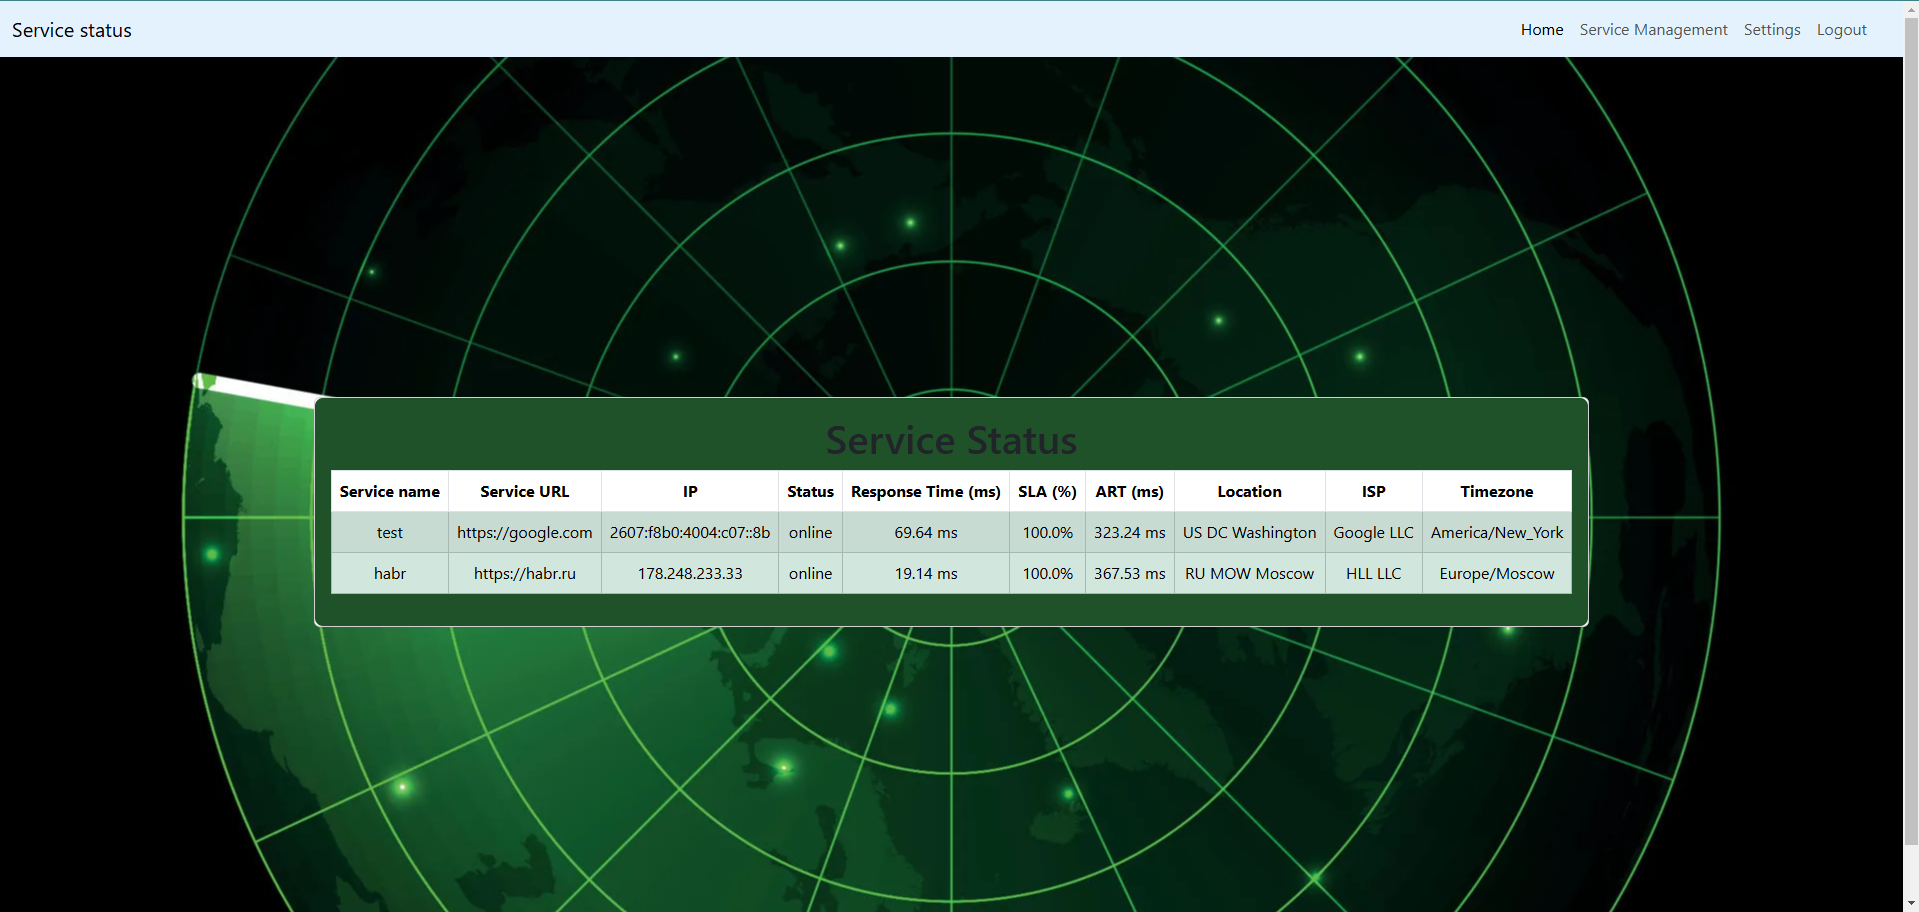
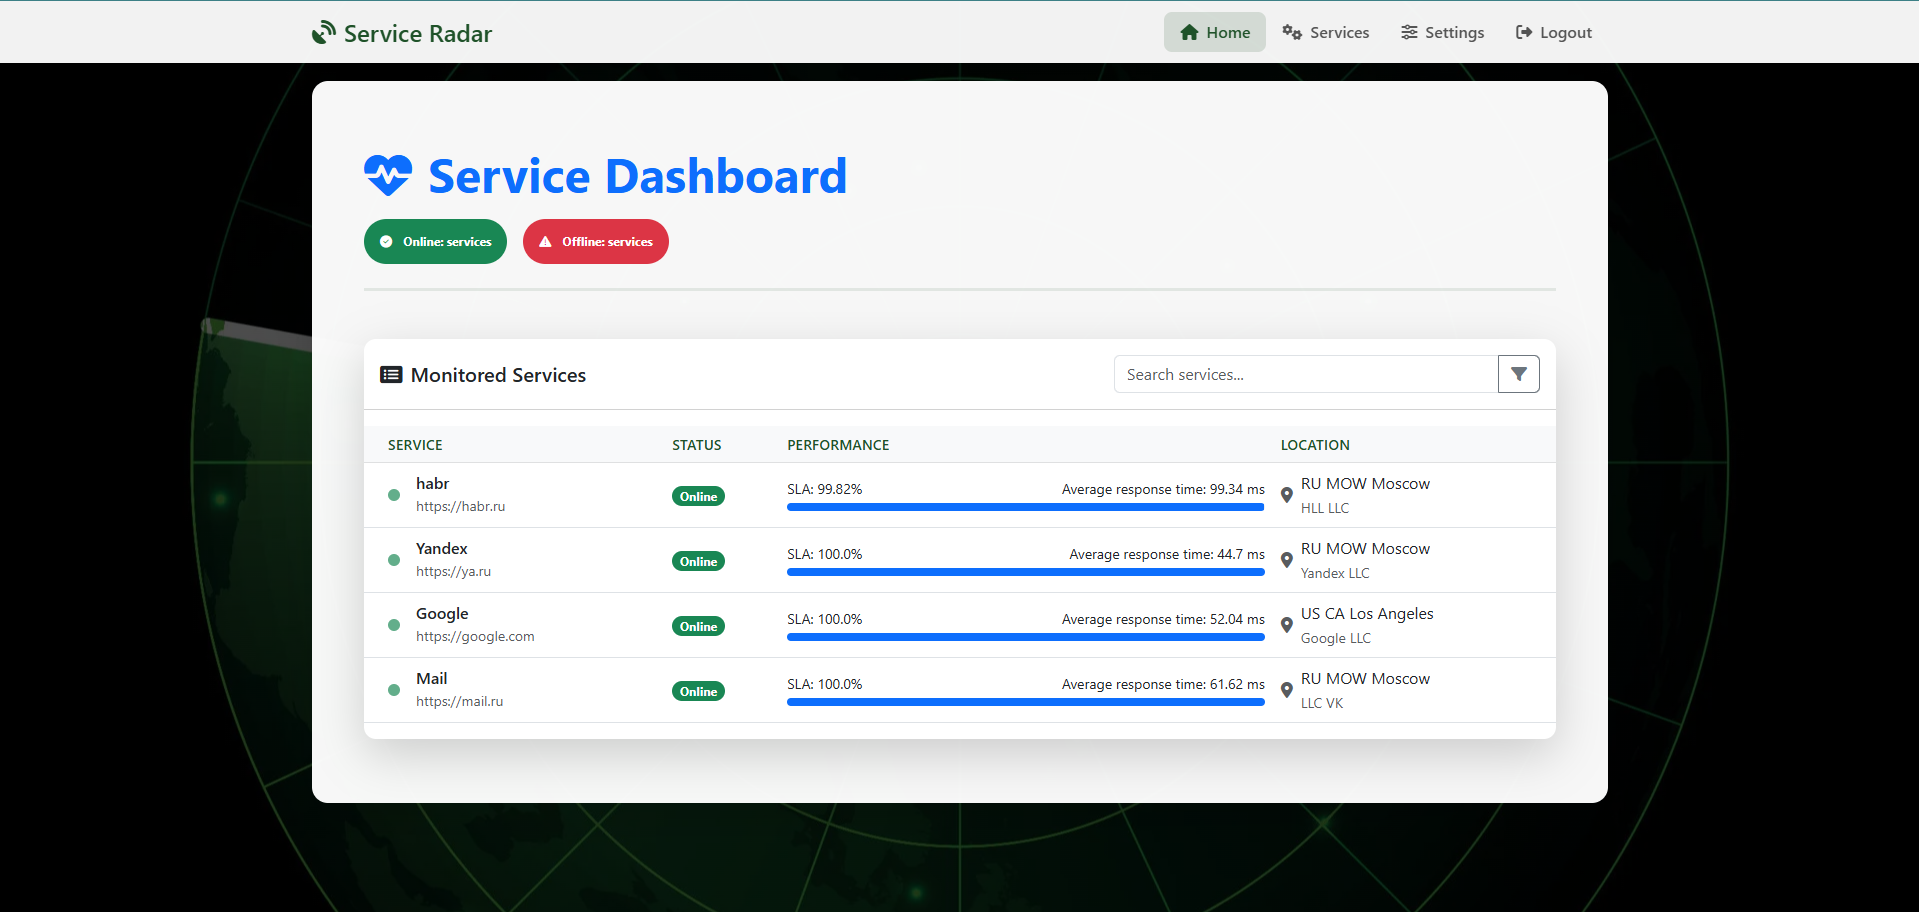
General improvements
Improved logging. Changes to some features to improve stability. Changes in the readme, updating screenshots in accordance with the new design.

diff --git a/templates/index.html b/templates/index.html
@@ -4,7 +4,7 @@
 <div class="container-fluid py-4">
     <div class="dashboard-header mb-5">
         <h1 class="display-5 fw-bold text-primary">
-            <i class="fas fa-heartbeat me-3"></i>Service Health Dashboard
+            <i class="fas fa-heartbeat me-3"></i>Service Dashboard
         </h1>
         <div class="status-summary d-flex gap-3 mt-3">
             <div class="badge bg-success rounded-pill p-3">
@@ -73,7 +73,7 @@
                                 <div class="progress-wrapper">
                                     <div class="d-flex justify-content-between small mb-1">
                                         <span>SLA: {{ sla_results.get(service.service_url, 0) }}%</span>
-                                        <span>{{ average_response_time_per_service.get(service.service_url, None)|float|round(2) }} ms</span>
+                                        <span>Average response time: {{ average_response_time_per_service.get(service.service_url, None)|float|round(2) }} ms</span>
                                     </div>
                                     <div class="progress" style="height: 8px;">
                                         <div class="progress-bar bg-primary"

diff --git a/app.py b/app.py
@@ -30,8 +30,9 @@ from location import get_location
 from urllib.parse import urlparse
 import configparser
 import os
+
+
 app = Flask(__name__)
-app.config['SECRET_KEY'] = 'your_secret_key'
 app.config['SQLALCHEMY_DATABASE_URI'] = 'sqlite:///services.db'
 init_db(app)
 bootstrap = Bootstrap5(app)
@@ -46,6 +47,9 @@ config['SMTP'] = {
 config['Schedule'] = {
     'interval': '300' # Set the interval in seconds to request updated data
 }
+config['Secret key'] = {
+    'key': 'your_secret_key'
+}
 config_path = 'conf/config.ini'
 os.makedirs(os.path.dirname(config_path), exist_ok=True)
 
@@ -57,7 +61,10 @@ else:
     config.read('conf/config.ini')
     print("The configuration file was successfully read")
 
+app.config['SECRET_KEY'] = config['Secret key']['key']
 schedule_interval = int(config['Schedule']['interval'])
+DEFAULT_ERROR_RESPONSE_TIME = 9999.99
+ERROR_TTL = 300
 
 login_manager = LoginManager()
 login_manager.init_app(app)
@@ -100,12 +107,13 @@ def check_services():
 
             except Exception as e:
                 status = 'offline'
-                response_time = 9999.99
-                # user_email = User.query.filter_by(id=user_id).with_entities(User.email).one()
-                # monitor_services(user_email, service_name, service_url)
+                response_time = DEFAULT_ERROR_RESPONSE_TIME
+                app.logger.error(f"The waiting time for a response from the {host} has exceeded. {e}")
 
             try:
                 location_info = get_location(host)
+                if "error" in location_info and (time.time() - location_info["timestamp"]) > ERROR_TTL:
+                    get_location.cache_clear()  # Reset cache for this host
             except Exception as e:
                 location_info = {
                     "query": host,
@@ -115,6 +123,7 @@ def check_services():
                     "isp": "N/A",
                     "timezone": "N/A"
                 }
+                app.logger.error(f"Geolocation request failed. {e}")
 
             service_status = ServiceStatus(
                 service_name=service_name,
@@ -155,12 +164,14 @@ def check_user_services():
 
         except Exception as e:
             status = 'offline'
-            response_time = 9999.99
-            app.logger.error(f"URL parsing failed: {e}")
+            response_time = DEFAULT_ERROR_RESPONSE_TIME
+            app.logger.error(f"The waiting time for a response from the {host} has exceeded. {e}")
 
-        # Получение геолокации с обработкой ошибок
+        # Getting geolocation with error handling
         try:
             location_info = get_location(host)
+            if "error" in location_info and (time.time() - location_info["timestamp"]) > ERROR_TTL:
+                get_location.cache_clear(host)  # Reset cache for this host
         except Exception as e:
             location_info = {
                 "query": host,
@@ -170,6 +181,7 @@ def check_user_services():
                 "isp": "N/A",
                 "timezone": "N/A"
             }
+            app.logger.error(f"Geolocation request failed. {e}")
 
         results.append({
             "service_name": service_name,
@@ -224,9 +236,15 @@ def monitor_services():
             last_status, current_status = get_last_status(service_url)
             if last_status != current_status and last_status is not None:
                 if current_status == 'offline':
-                    send_email(f"Service {service_name} is now offline", f"The service {service_url} has gone offline at {time.strftime('%Y-%m-%d %H:%M:%S')}", user_email)
+                    try:
+                        send_email(f"Service {service_name} is now offline", f"The service {service_url} has gone offline at {time.strftime('%Y-%m-%d %H:%M:%S')}", user_email)
+                    except Exception as e:
+                        app.logger.error(f"Failed to send email: {e}")
                 else:
-                    send_email(f"Service {service_name} is now online", f"The service {service_url} is now online at {time.strftime('%Y-%m-%d %H:%M:%S')}", user_email)
+                    try:
+                        send_email(f"Service {service_name} is now online", f"The service {service_url} is now online at {time.strftime('%Y-%m-%d %H:%M:%S')}", user_email)
+                    except Exception as e:
+                        app.logger.error(f"Failed to send email: {e}")
 
 
 @app.route('/register', methods=['GET', 'POST'])
@@ -303,8 +321,8 @@ def index():
                                         (ServiceStatus.service_url == subquery.c.service_url) &
                                         (ServiceStatus.timestamp == subquery.c.max_timestamp))
 
-    services_sla = ServiceStatus.query.filter_by(user_id=current_user.id).all()
-
+    services_sla = ServiceStatus.query.filter(ServiceStatus.user_id == current_user.id,
+                                              ServiceStatus.response_time != DEFAULT_ERROR_RESPONSE_TIME).all()
     total_responses_per_service = {s.service_url: len([ss for ss in services_sla if ss.service_url == s.service_url])
                                    for s in services}
 
@@ -425,4 +443,4 @@ def sla():
 
 
 if __name__ == '__main__':
-    app.run(debug=False)
+    app.run(debug=True)

diff --git a/location.py b/location.py
@@ -1,13 +1,21 @@
-import urllib.request as urllib2
+import requests
+from requests.exceptions import RequestException
+import time
 import json
 from functools import lru_cache
 
+RATE_LIMIT_DELAY = 1.5
+
 @lru_cache(maxsize=100)
-def get_location(ip):
-    url = "http://ip-api.com/json/"
-    response = urllib2.urlopen(url + ip)
-    data = response.read()
-    values = json.loads(data)
+def get_location(ip: str) -> dict:
+    time.sleep(RATE_LIMIT_DELAY)
+
+    try:
+        url = f"http://ip-api.com/json/{ip}"
+        response = requests.get(url, timeout=5)
+        values = response.json()
+    except RequestException:
+        return {"error": "API not available", "timestamp": time.time()}
 
     return values
 

diff --git a/README.MD b/README.MD
@@ -21,8 +21,8 @@ A project for monitoring the availability of services with a web interface, noti
 ## Installation
 1. **Clone a repository**:
    ```bash
-   git clone https://github.com/BTemplar/Service_Locator.git
-   cd Service_Locator
+   git clone https://github.com/BTemplar/Service_radar.git
+   cd Service_radar
 2. **Installing Libraries**:
    ```bash
    pip install -r requirements.txt
@@ -43,6 +43,9 @@ A project for monitoring the availability of services with a web interface, noti
 
    [Schedule]
    interval = 300  
+   
+   [Secret key] 
+   key = 'dtDN8fjd77DFH9879jkHgfDghj45Hhj'
 ## Launch  
 ```bash  
 flask run --host=0.0.0.0  

diff --git a/README_RU.MD b/README_RU.MD
@@ -21,8 +21,8 @@
 ## Установка
 1. **Клонировать репозиторий**:
    ```bash
-   git clone https://github.com/BTemplar/Service_Locator.git
-   cd Service_Locator
+   git clone https://github.com/BTemplar/Service_radar.git
+   cd Service_radar
 2. **Клонировать репозиторий**:
    ```bash
    pip install -r requirements.txt
@@ -43,6 +43,9 @@
 
    [Schedule]
    interval = 300  
+      
+   [Secret key] 
+   key = 'dtDN8fjd77DFH9879jkHgfDghj45Hhj'
 ## Запуск  
 ```bash  
 flask run --host=0.0.0.0  
